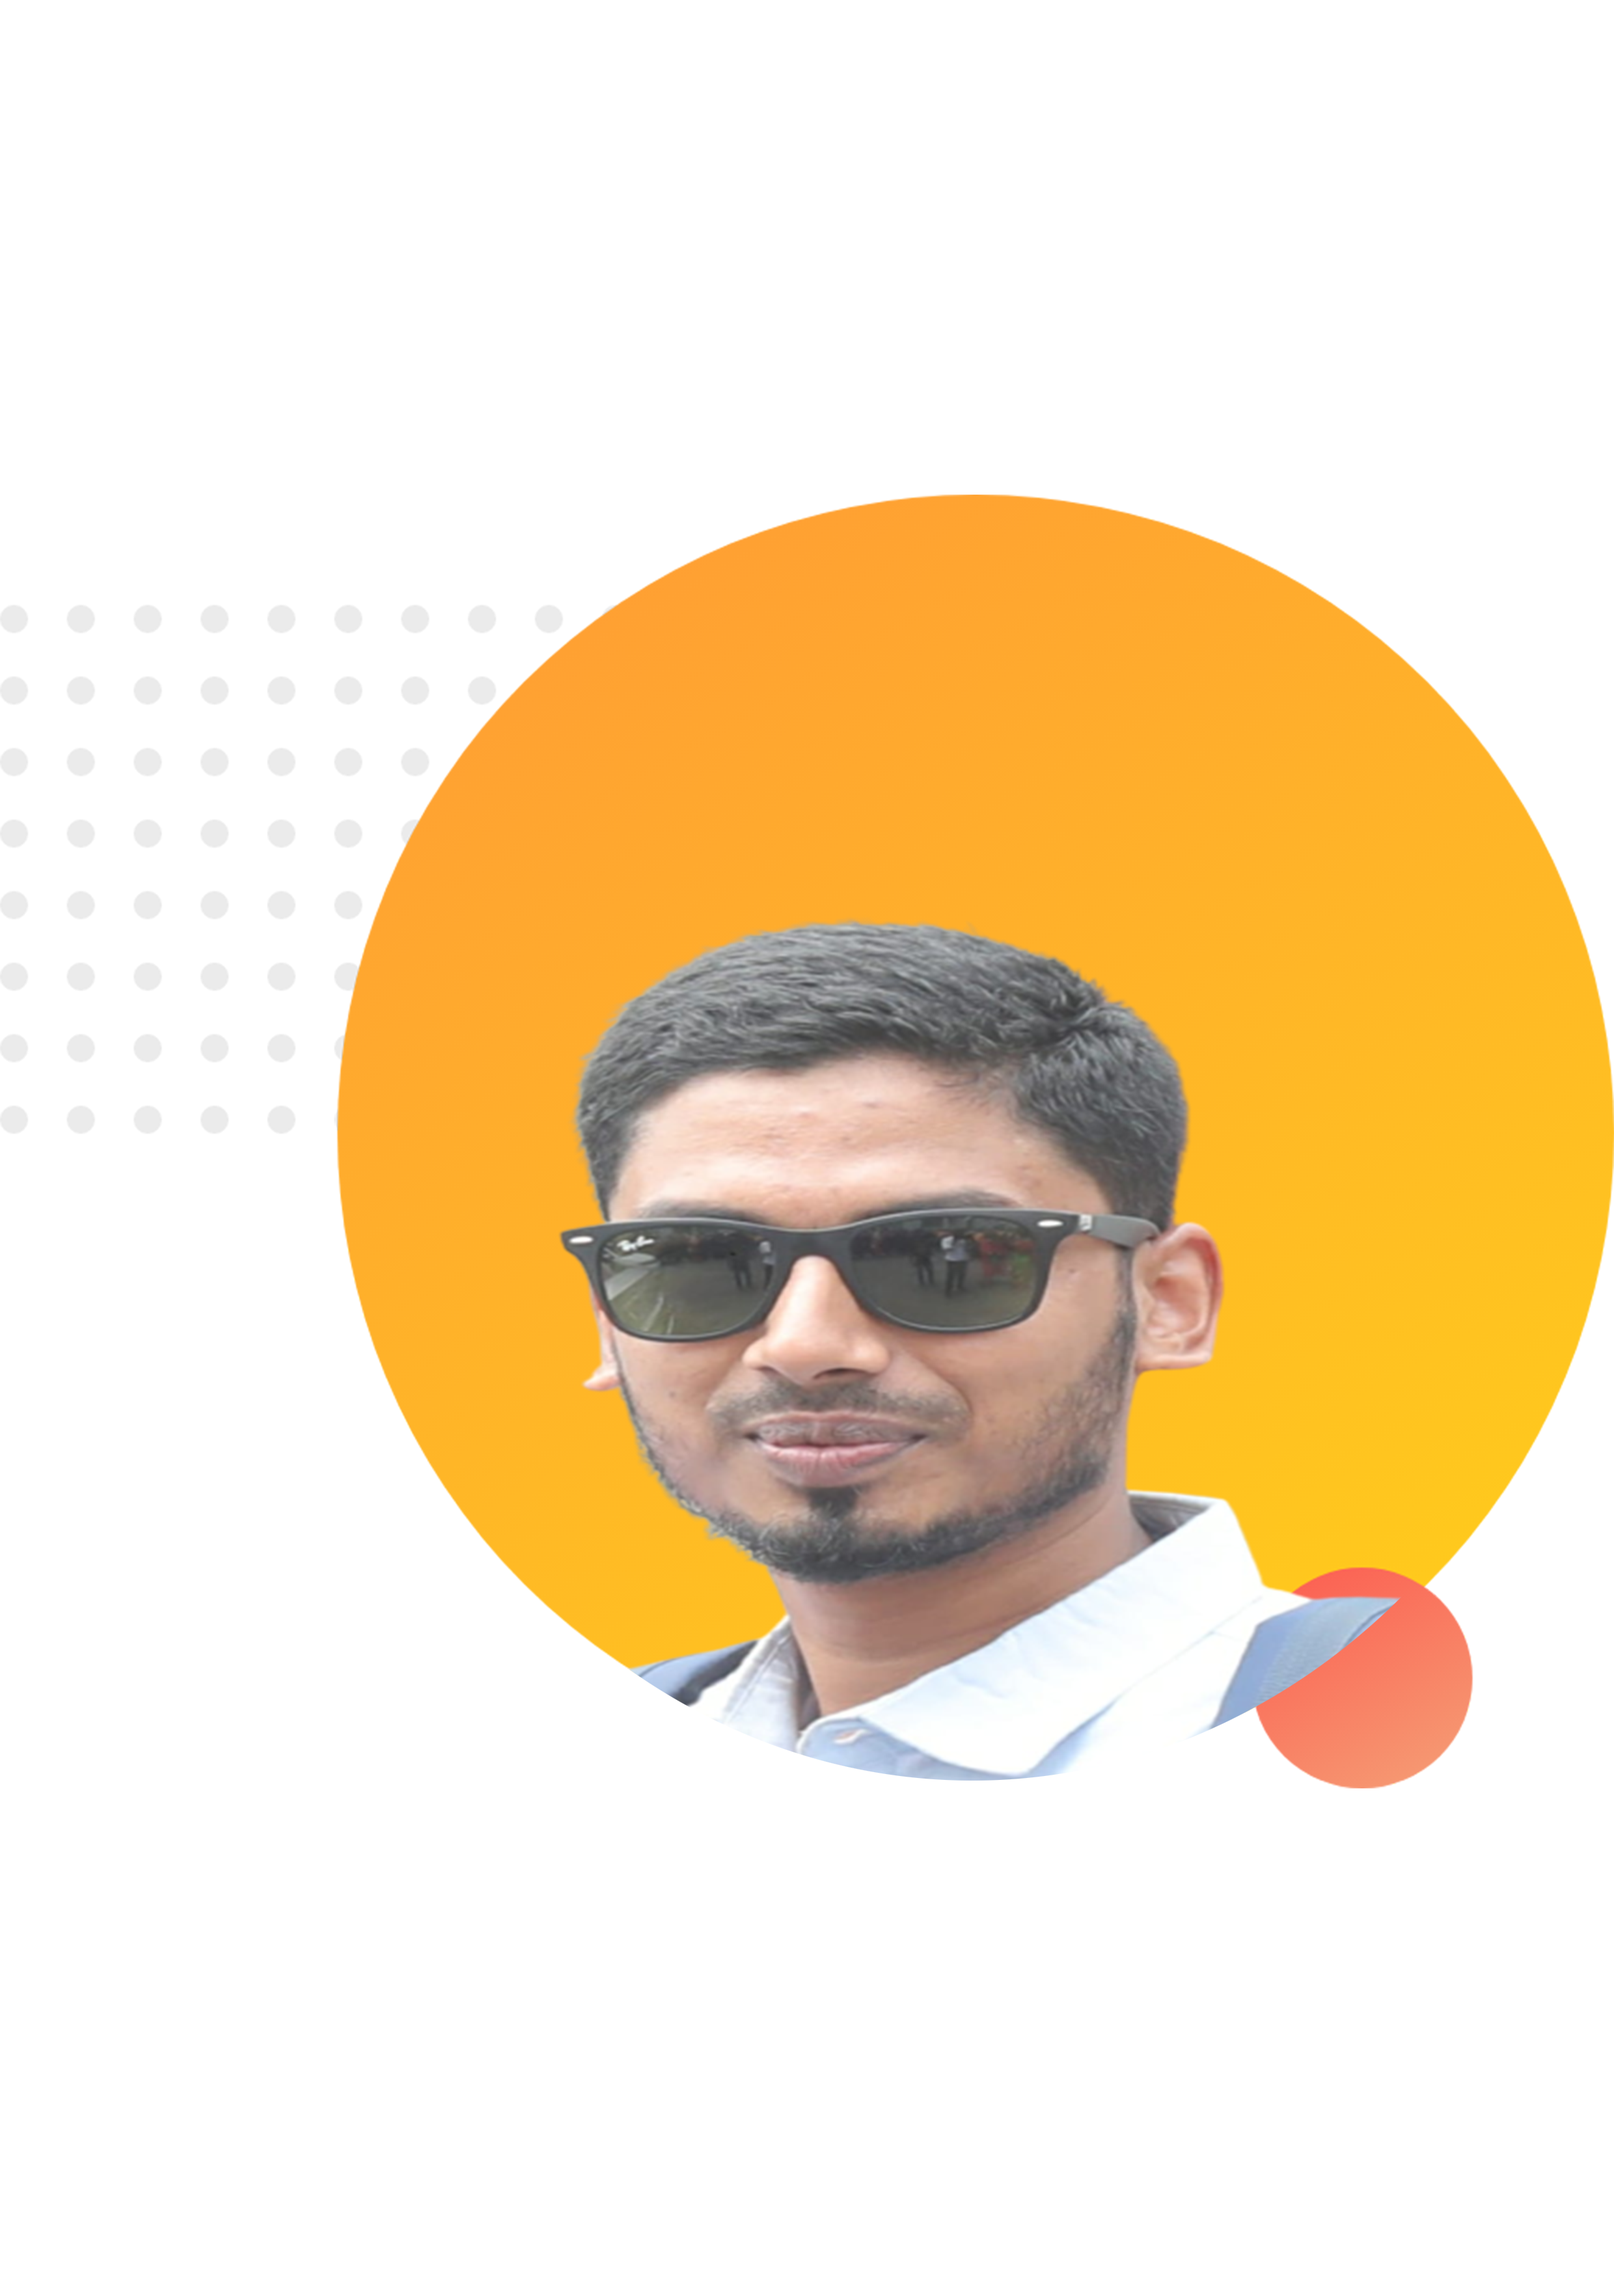
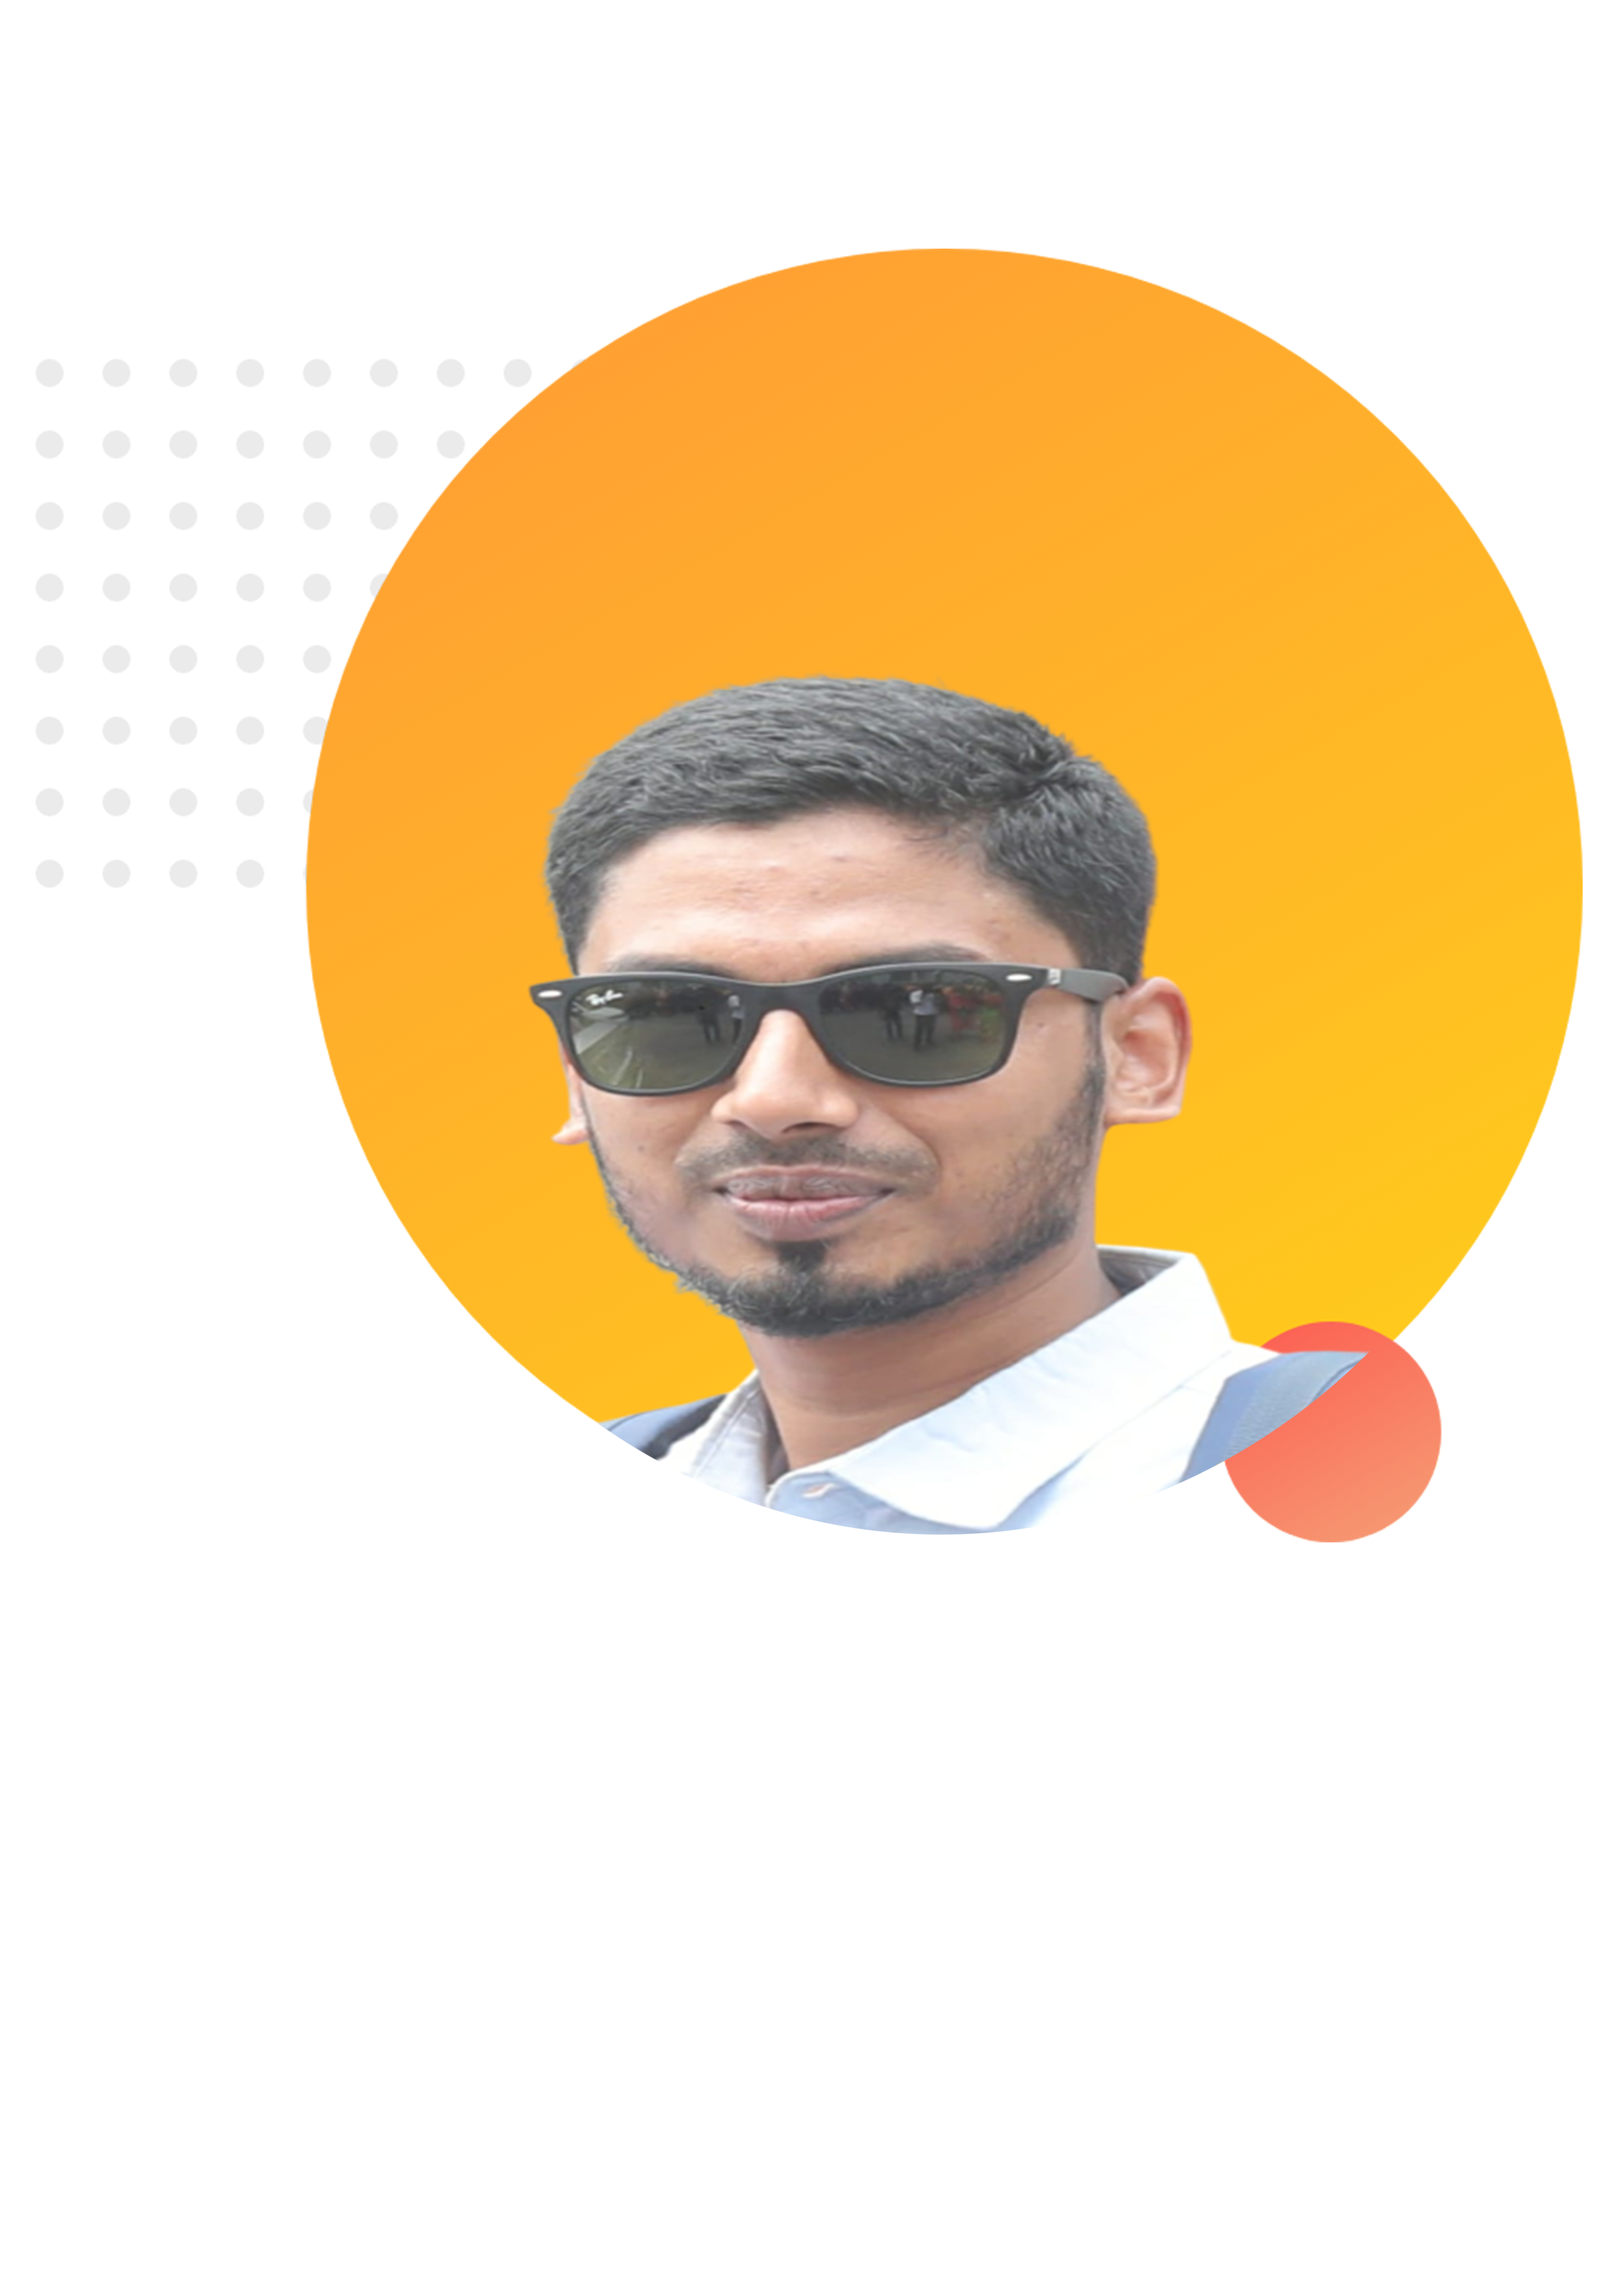
dream area section

Changed region(s): [[0.1863, 0.0932, 1.0, 0.8079], [0.621, 0.7457, 0.6831, 0.7768]]

diff --git a/index.html b/index.html
@@ -14,11 +14,22 @@
             <h1> <span class="name-highlight">Developer Jobayer</span> Portfolio</h1>
             <h3>Professional Web Developer</h3>
             <p>Lorem Ipsum is simply dummy text of the printing and typesetting industry. Lorem Ipsum has been the industry's standard dummy text ever since the 1500s, when an unknown printer took a galley of type and scrambled it to make a type specimen book. </p>
-            <button>Hire Me</button>
+            <a class="link-button" target="_blank" href="https://www.facebook.com/profile.php?id=100039703722829">Hire Me</a>
         </div>
-        <div class="half-width">
-            <img src="/images/jobayer-3.png" alt="Jobayer">
+        <div class="half-width"> 
+            <img src="images/jobayer-3.png" alt="Jobayer">
         </div>
+   </section>
+   <section class="dream-area">
+    <div class="half-width">
+        <img src="images/jobayer-1.png" alt="Jobayer">
+    </div>
+    <div class="half-width">
+        <h2>Dream Big</h2>
+        <h3>Become a web developer</h3>
+        <p>Lorem Ipsum is simply dummy text of the printing and typesetting industry. Lorem Ipsum has been the industry's standard dummy text ever since the 1500s, when an unknown printer took a galley of type and scrambled it to make a type specimen book.</p>
+        <a target="_blank" class="link-button" href="#">Download Resume</a>
+    </div>
    </section>
 </body>
 </html>

diff --git a/style.css b/style.css
@@ -4,8 +4,17 @@ body{
      margin: 0;
      padding: 0;
 }
+section{
+    height: 600px;
+}
 h1{
     font-size: 50px;
+}
+h2{
+    font-size: 40px;
+}
+p{
+    color: dimgray;
 }
 .name-highlight{
     color: orange;
@@ -19,5 +28,24 @@ h1{
 }
 
 .half-width img{
-    width: 100%;
+    width: 70%;
+    
+}
+.hero-section{
+    background-image: url("images/top-banner.png");
+    background-repeat: no-repeat;
+}
+.link-button{
+    text-decoration: none;
+    background-image: linear-gradient(45deg, lightSalmon, tomato);
+    padding: 10px 20px;
+    border-radius: 5px;
+    color: white;
+    text-transform: uppercase;
+    font-weight: 600;
+}
+.dream-area{
+    background-image: url("images/dream-bg.png");
+    background-repeat: no-repeat;
+   background-position: right;
 }
